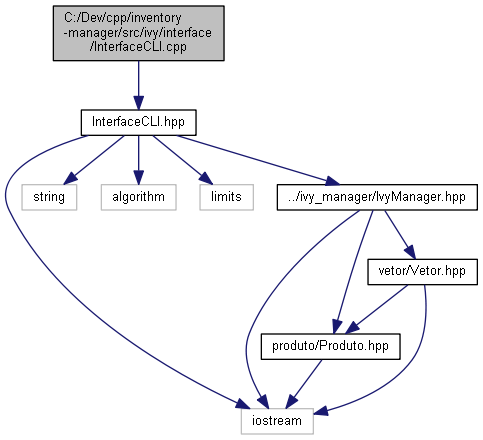
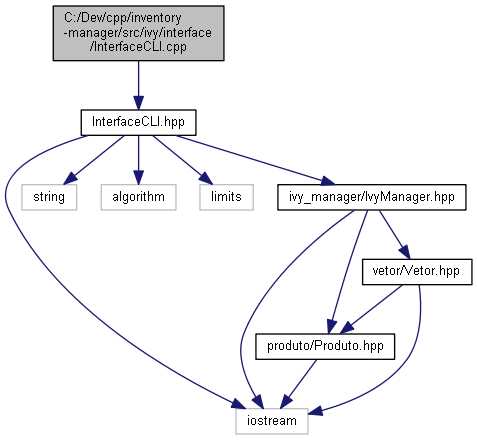
documentacao adicionada ao ghpages

diff --git a/docs/html/_interface_c_l_i_8hpp_source.html b/docs/html/_interface_c_l_i_8hpp_source.html
@@ -92,7 +92,7 @@ $(document).ready(function(){initNavTree('_interface_c_l_i_8hpp_source.html','')
 <div class="title">InterfaceCLI.hpp</div>  </div>
 </div><!--header-->
 <div class="contents">
-<a href="_interface_c_l_i_8hpp.html">Go to the documentation of this file.</a><div class="fragment"><div class="line"><a name="l00001"></a><span class="lineno">    1</span>&#160;<span class="preprocessor">#pragma once</span></div><div class="line"><a name="l00002"></a><span class="lineno">    2</span>&#160;<span class="preprocessor">#include &lt;iostream&gt;</span></div><div class="line"><a name="l00003"></a><span class="lineno">    3</span>&#160;<span class="preprocessor">#include &lt;string&gt;</span></div><div class="line"><a name="l00004"></a><span class="lineno">    4</span>&#160;<span class="preprocessor">#include &lt;algorithm&gt;</span></div><div class="line"><a name="l00005"></a><span class="lineno">    5</span>&#160;<span class="preprocessor">#include &lt;limits&gt;</span></div><div class="line"><a name="l00006"></a><span class="lineno">    6</span>&#160;<span class="preprocessor">#include &quot;../ivy_manager/IvyManager.hpp&quot;</span></div><div class="line"><a name="l00007"></a><span class="lineno">    7</span>&#160;</div><div class="line"><a name="l00008"></a><span class="lineno">    8</span>&#160;<span class="keyword">namespace </span><a class="code" href="namespaceivy.html">ivy</a></div><div class="line"><a name="l00009"></a><span class="lineno">    9</span>&#160;{</div><div class="line"><a name="l00014"></a><span class="lineno"><a class="line" href="classivy_1_1_interface_c_l_i.html">   14</a></span>&#160;<span class="keyword">class </span><a class="code" href="classivy_1_1_interface_c_l_i.html">InterfaceCLI</a></div><div class="line"><a name="l00015"></a><span class="lineno">   15</span>&#160;{</div><div class="line"><a name="l00016"></a><span class="lineno">   16</span>&#160;<span class="keyword">private</span>:</div><div class="line"><a name="l00021"></a><span class="lineno"><a class="line" href="classivy_1_1_interface_c_l_i.html#acb9e6d8810ca2362fb6f42bb8966f964">   21</a></span>&#160;    <a class="code" href="classivy_1_1_ivy_manager.html">IvyManager</a> <a class="code" href="classivy_1_1_interface_c_l_i.html#acb9e6d8810ca2362fb6f42bb8966f964">ivy_manager</a>;</div><div class="line"><a name="l00022"></a><span class="lineno">   22</span>&#160;</div><div class="line"><a name="l00027"></a><span class="lineno"><a class="line" href="classivy_1_1_interface_c_l_i.html#aec91bf8a1d5117be60dbdf0b1652876d">   27</a></span>&#160;    <span class="keywordtype">bool</span> <a class="code" href="classivy_1_1_interface_c_l_i.html#aec91bf8a1d5117be60dbdf0b1652876d">sair</a>;</div><div class="line"><a name="l00028"></a><span class="lineno">   28</span>&#160;</div><div class="line"><a name="l00033"></a><span class="lineno"><a class="line" href="classivy_1_1_interface_c_l_i.html#af43bc4c9ea67bf5cd5c35442d25965a5">   33</a></span>&#160;    std::string <a class="code" href="classivy_1_1_interface_c_l_i.html#af43bc4c9ea67bf5cd5c35442d25965a5">opt</a>;</div><div class="line"><a name="l00034"></a><span class="lineno">   34</span>&#160;</div><div class="line"><a name="l00035"></a><span class="lineno">   35</span>&#160;<span class="keyword">public</span>:</div><div class="line"><a name="l00041"></a><span class="lineno">   41</span>&#160;    <a class="code" href="classivy_1_1_interface_c_l_i.html#aef9d3a8136593e6b9441f158ca403dc6">InterfaceCLI</a>(<a class="code" href="classivy_1_1_ivy_manager.html">IvyManager</a> &amp;nIvy_manager);</div><div class="line"><a name="l00042"></a><span class="lineno">   42</span>&#160;</div><div class="line"><a name="l00047"></a><span class="lineno">   47</span>&#160;    <a class="code" href="classivy_1_1_interface_c_l_i.html#ad6dcfbf0aa450dde9dfc81c5ba68646b">~InterfaceCLI</a>();</div><div class="line"><a name="l00048"></a><span class="lineno">   48</span>&#160;</div><div class="line"><a name="l00053"></a><span class="lineno">   53</span>&#160;    <span class="keywordtype">void</span> <a class="code" href="classivy_1_1_interface_c_l_i.html#a1d9c84216def96675b6a60fb3ca6d201">run</a>();</div><div class="line"><a name="l00054"></a><span class="lineno">   54</span>&#160;</div><div class="line"><a name="l00059"></a><span class="lineno">   59</span>&#160;    <span class="keywordtype">void</span> <a class="code" href="classivy_1_1_interface_c_l_i.html#ac0d99448f2c0e42e6d85acc21671dd5f">logo</a>();</div><div class="line"><a name="l00060"></a><span class="lineno">   60</span>&#160;</div><div class="line"><a name="l00065"></a><span class="lineno">   65</span>&#160;    <span class="keywordtype">void</span> <a class="code" href="classivy_1_1_interface_c_l_i.html#ad3a851b780a15f6c67428c59b5b1fe5b">menu</a>();</div><div class="line"><a name="l00066"></a><span class="lineno">   66</span>&#160;</div><div class="line"><a name="l00071"></a><span class="lineno">   71</span>&#160;    <span class="keywordtype">void</span> <a class="code" href="classivy_1_1_interface_c_l_i.html#a5e8ba431daf3cf4a14f4d31a7919a38a">option_handler</a>();</div><div class="line"><a name="l00072"></a><span class="lineno">   72</span>&#160;</div><div class="line"><a name="l00077"></a><span class="lineno">   77</span>&#160;    <span class="keywordtype">void</span> <a class="code" href="classivy_1_1_interface_c_l_i.html#ab1945cf30996bef4223bad7b733583d5">ajuda</a>();</div><div class="line"><a name="l00078"></a><span class="lineno">   78</span>&#160;</div><div class="line"><a name="l00083"></a><span class="lineno">   83</span>&#160;    <span class="keywordtype">void</span> <a class="code" href="classivy_1_1_interface_c_l_i.html#a494550d9c35c5f1ce1efd68cac0a6080">cadastrar</a>();</div><div class="line"><a name="l00084"></a><span class="lineno">   84</span>&#160;</div><div class="line"><a name="l00089"></a><span class="lineno">   89</span>&#160;    <span class="keywordtype">void</span> <a class="code" href="classivy_1_1_interface_c_l_i.html#a41599a3c68b2fea24d429ce198d16ffb">editar</a>();</div><div class="line"><a name="l00090"></a><span class="lineno">   90</span>&#160;</div><div class="line"><a name="l00095"></a><span class="lineno">   95</span>&#160;    <span class="keywordtype">void</span> <a class="code" href="classivy_1_1_interface_c_l_i.html#ab4a5ce507d934cd6d21b82ba65ba97f3">buscar</a>();</div><div class="line"><a name="l00096"></a><span class="lineno">   96</span>&#160;</div><div class="line"><a name="l00101"></a><span class="lineno">  101</span>&#160;    <span class="keywordtype">void</span> <a class="code" href="classivy_1_1_interface_c_l_i.html#a2634dfc23bb3fb2cbacfe1bee9c04709">vender</a>();</div><div class="line"><a name="l00102"></a><span class="lineno">  102</span>&#160;</div><div class="line"><a name="l00107"></a><span class="lineno">  107</span>&#160;    <span class="keywordtype">void</span> <a class="code" href="classivy_1_1_interface_c_l_i.html#aae7a23df61ce414134276a1ecc685c10">comprar</a>();</div><div class="line"><a name="l00108"></a><span class="lineno">  108</span>&#160;};</div><div class="line"><a name="l00109"></a><span class="lineno">  109</span>&#160;} <span class="comment">// namespace ivy</span></div><div class="ttc" id="classivy_1_1_interface_c_l_i_html_acb9e6d8810ca2362fb6f42bb8966f964"><div class="ttname"><a href="classivy_1_1_interface_c_l_i.html#acb9e6d8810ca2362fb6f42bb8966f964">ivy::InterfaceCLI::ivy_manager</a></div><div class="ttdeci">IvyManager ivy_manager</div><div class="ttdoc">Referencia para o objeto de IvyManager.</div><div class="ttdef"><b>Definition:</b> InterfaceCLI.hpp:21</div></div>
+<a href="_interface_c_l_i_8hpp.html">Go to the documentation of this file.</a><div class="fragment"><div class="line"><a name="l00001"></a><span class="lineno">    1</span>&#160;<span class="preprocessor">#pragma once</span></div><div class="line"><a name="l00002"></a><span class="lineno">    2</span>&#160;<span class="preprocessor">#include &lt;iostream&gt;</span></div><div class="line"><a name="l00003"></a><span class="lineno">    3</span>&#160;<span class="preprocessor">#include &lt;string&gt;</span></div><div class="line"><a name="l00004"></a><span class="lineno">    4</span>&#160;<span class="preprocessor">#include &lt;algorithm&gt;</span></div><div class="line"><a name="l00005"></a><span class="lineno">    5</span>&#160;<span class="preprocessor">#include &lt;limits&gt;</span></div><div class="line"><a name="l00006"></a><span class="lineno">    6</span>&#160;<span class="preprocessor">#include &quot;<a class="code" href="_ivy_manager_8hpp.html">ivy_manager/IvyManager.hpp</a>&quot;</span></div><div class="line"><a name="l00007"></a><span class="lineno">    7</span>&#160;</div><div class="line"><a name="l00008"></a><span class="lineno">    8</span>&#160;<span class="keyword">namespace </span><a class="code" href="namespaceivy.html">ivy</a></div><div class="line"><a name="l00009"></a><span class="lineno">    9</span>&#160;{</div><div class="line"><a name="l00014"></a><span class="lineno"><a class="line" href="classivy_1_1_interface_c_l_i.html">   14</a></span>&#160;<span class="keyword">class </span><a class="code" href="classivy_1_1_interface_c_l_i.html">InterfaceCLI</a></div><div class="line"><a name="l00015"></a><span class="lineno">   15</span>&#160;{</div><div class="line"><a name="l00016"></a><span class="lineno">   16</span>&#160;<span class="keyword">private</span>:</div><div class="line"><a name="l00021"></a><span class="lineno"><a class="line" href="classivy_1_1_interface_c_l_i.html#acb9e6d8810ca2362fb6f42bb8966f964">   21</a></span>&#160;    <a class="code" href="classivy_1_1_ivy_manager.html">IvyManager</a> <a class="code" href="classivy_1_1_interface_c_l_i.html#acb9e6d8810ca2362fb6f42bb8966f964">ivy_manager</a>;</div><div class="line"><a name="l00022"></a><span class="lineno">   22</span>&#160;</div><div class="line"><a name="l00027"></a><span class="lineno"><a class="line" href="classivy_1_1_interface_c_l_i.html#aec91bf8a1d5117be60dbdf0b1652876d">   27</a></span>&#160;    <span class="keywordtype">bool</span> <a class="code" href="classivy_1_1_interface_c_l_i.html#aec91bf8a1d5117be60dbdf0b1652876d">sair</a>;</div><div class="line"><a name="l00028"></a><span class="lineno">   28</span>&#160;</div><div class="line"><a name="l00033"></a><span class="lineno"><a class="line" href="classivy_1_1_interface_c_l_i.html#af43bc4c9ea67bf5cd5c35442d25965a5">   33</a></span>&#160;    std::string <a class="code" href="classivy_1_1_interface_c_l_i.html#af43bc4c9ea67bf5cd5c35442d25965a5">opt</a>;</div><div class="line"><a name="l00034"></a><span class="lineno">   34</span>&#160;</div><div class="line"><a name="l00035"></a><span class="lineno">   35</span>&#160;<span class="keyword">public</span>:</div><div class="line"><a name="l00041"></a><span class="lineno">   41</span>&#160;    <a class="code" href="classivy_1_1_interface_c_l_i.html#aef9d3a8136593e6b9441f158ca403dc6">InterfaceCLI</a>(<a class="code" href="classivy_1_1_ivy_manager.html">IvyManager</a> &amp;nIvy_manager);</div><div class="line"><a name="l00042"></a><span class="lineno">   42</span>&#160;</div><div class="line"><a name="l00047"></a><span class="lineno">   47</span>&#160;    <a class="code" href="classivy_1_1_interface_c_l_i.html#ad6dcfbf0aa450dde9dfc81c5ba68646b">~InterfaceCLI</a>();</div><div class="line"><a name="l00048"></a><span class="lineno">   48</span>&#160;</div><div class="line"><a name="l00053"></a><span class="lineno">   53</span>&#160;    <span class="keywordtype">void</span> <a class="code" href="classivy_1_1_interface_c_l_i.html#a1d9c84216def96675b6a60fb3ca6d201">run</a>();</div><div class="line"><a name="l00054"></a><span class="lineno">   54</span>&#160;</div><div class="line"><a name="l00059"></a><span class="lineno">   59</span>&#160;    <span class="keywordtype">void</span> <a class="code" href="classivy_1_1_interface_c_l_i.html#ac0d99448f2c0e42e6d85acc21671dd5f">logo</a>();</div><div class="line"><a name="l00060"></a><span class="lineno">   60</span>&#160;</div><div class="line"><a name="l00065"></a><span class="lineno">   65</span>&#160;    <span class="keywordtype">void</span> <a class="code" href="classivy_1_1_interface_c_l_i.html#ad3a851b780a15f6c67428c59b5b1fe5b">menu</a>();</div><div class="line"><a name="l00066"></a><span class="lineno">   66</span>&#160;</div><div class="line"><a name="l00071"></a><span class="lineno">   71</span>&#160;    <span class="keywordtype">void</span> <a class="code" href="classivy_1_1_interface_c_l_i.html#a5e8ba431daf3cf4a14f4d31a7919a38a">option_handler</a>();</div><div class="line"><a name="l00072"></a><span class="lineno">   72</span>&#160;</div><div class="line"><a name="l00077"></a><span class="lineno">   77</span>&#160;    <span class="keywordtype">void</span> <a class="code" href="classivy_1_1_interface_c_l_i.html#ab1945cf30996bef4223bad7b733583d5">ajuda</a>();</div><div class="line"><a name="l00078"></a><span class="lineno">   78</span>&#160;</div><div class="line"><a name="l00083"></a><span class="lineno">   83</span>&#160;    <span class="keywordtype">void</span> <a class="code" href="classivy_1_1_interface_c_l_i.html#a494550d9c35c5f1ce1efd68cac0a6080">cadastrar</a>();</div><div class="line"><a name="l00084"></a><span class="lineno">   84</span>&#160;</div><div class="line"><a name="l00089"></a><span class="lineno">   89</span>&#160;    <span class="keywordtype">void</span> <a class="code" href="classivy_1_1_interface_c_l_i.html#a41599a3c68b2fea24d429ce198d16ffb">editar</a>();</div><div class="line"><a name="l00090"></a><span class="lineno">   90</span>&#160;</div><div class="line"><a name="l00095"></a><span class="lineno">   95</span>&#160;    <span class="keywordtype">void</span> <a class="code" href="classivy_1_1_interface_c_l_i.html#ab4a5ce507d934cd6d21b82ba65ba97f3">buscar</a>();</div><div class="line"><a name="l00096"></a><span class="lineno">   96</span>&#160;</div><div class="line"><a name="l00101"></a><span class="lineno">  101</span>&#160;    <span class="keywordtype">void</span> <a class="code" href="classivy_1_1_interface_c_l_i.html#a2634dfc23bb3fb2cbacfe1bee9c04709">vender</a>();</div><div class="line"><a name="l00102"></a><span class="lineno">  102</span>&#160;</div><div class="line"><a name="l00107"></a><span class="lineno">  107</span>&#160;    <span class="keywordtype">void</span> <a class="code" href="classivy_1_1_interface_c_l_i.html#aae7a23df61ce414134276a1ecc685c10">comprar</a>();</div><div class="line"><a name="l00108"></a><span class="lineno">  108</span>&#160;};</div><div class="line"><a name="l00109"></a><span class="lineno">  109</span>&#160;} <span class="comment">// namespace ivy</span></div><div class="ttc" id="classivy_1_1_interface_c_l_i_html_acb9e6d8810ca2362fb6f42bb8966f964"><div class="ttname"><a href="classivy_1_1_interface_c_l_i.html#acb9e6d8810ca2362fb6f42bb8966f964">ivy::InterfaceCLI::ivy_manager</a></div><div class="ttdeci">IvyManager ivy_manager</div><div class="ttdoc">Referencia para o objeto de IvyManager.</div><div class="ttdef"><b>Definition:</b> InterfaceCLI.hpp:21</div></div>
 <div class="ttc" id="classivy_1_1_interface_c_l_i_html"><div class="ttname"><a href="classivy_1_1_interface_c_l_i.html">ivy::InterfaceCLI</a></div><div class="ttdoc">Classe InterfaceCLI Realiza a interacao com o usuario.</div><div class="ttdef"><b>Definition:</b> InterfaceCLI.hpp:14</div></div>
 <div class="ttc" id="classivy_1_1_interface_c_l_i_html_ac0d99448f2c0e42e6d85acc21671dd5f"><div class="ttname"><a href="classivy_1_1_interface_c_l_i.html#ac0d99448f2c0e42e6d85acc21671dd5f">ivy::InterfaceCLI::logo</a></div><div class="ttdeci">void logo()</div><div class="ttdoc">Logo do programa.</div><div class="ttdef"><b>Definition:</b> InterfaceCLI.cpp:27</div></div>
 <div class="ttc" id="classivy_1_1_interface_c_l_i_html_a494550d9c35c5f1ce1efd68cac0a6080"><div class="ttname"><a href="classivy_1_1_interface_c_l_i.html#a494550d9c35c5f1ce1efd68cac0a6080">ivy::InterfaceCLI::cadastrar</a></div><div class="ttdeci">void cadastrar()</div><div class="ttdoc">Entrada dos dados do produto.</div><div class="ttdef"><b>Definition:</b> InterfaceCLI.cpp:95</div></div>
@@ -104,6 +104,7 @@ $(document).ready(function(){initNavTree('_interface_c_l_i_8hpp_source.html','')
 <div class="ttc" id="namespaceivy_html"><div class="ttname"><a href="namespaceivy.html">ivy</a></div><div class="ttdef"><b>Definition:</b> InterfaceCLI.cpp:3</div></div>
 <div class="ttc" id="classivy_1_1_ivy_manager_html"><div class="ttname"><a href="classivy_1_1_ivy_manager.html">ivy::IvyManager</a></div><div class="ttdoc">Classe IvyManager.</div><div class="ttdef"><b>Definition:</b> IvyManager.hpp:12</div></div>
 <div class="ttc" id="classivy_1_1_interface_c_l_i_html_ab4a5ce507d934cd6d21b82ba65ba97f3"><div class="ttname"><a href="classivy_1_1_interface_c_l_i.html#ab4a5ce507d934cd6d21b82ba65ba97f3">ivy::InterfaceCLI::buscar</a></div><div class="ttdeci">void buscar()</div><div class="ttdoc">Busca um produto no estoque.</div><div class="ttdef"><b>Definition:</b> InterfaceCLI.cpp:162</div></div>
+<div class="ttc" id="_ivy_manager_8hpp_html"><div class="ttname"><a href="_ivy_manager_8hpp.html">IvyManager.hpp</a></div></div>
 <div class="ttc" id="classivy_1_1_interface_c_l_i_html_aae7a23df61ce414134276a1ecc685c10"><div class="ttname"><a href="classivy_1_1_interface_c_l_i.html#aae7a23df61ce414134276a1ecc685c10">ivy::InterfaceCLI::comprar</a></div><div class="ttdeci">void comprar()</div><div class="ttdoc">Compra um produto.</div><div class="ttdef"><b>Definition:</b> InterfaceCLI.cpp:258</div></div>
 <div class="ttc" id="classivy_1_1_interface_c_l_i_html_af43bc4c9ea67bf5cd5c35442d25965a5"><div class="ttname"><a href="classivy_1_1_interface_c_l_i.html#af43bc4c9ea67bf5cd5c35442d25965a5">ivy::InterfaceCLI::opt</a></div><div class="ttdeci">std::string opt</div><div class="ttdoc">Opcoes digitadas pelo usuario.</div><div class="ttdef"><b>Definition:</b> InterfaceCLI.hpp:33</div></div>
 <div class="ttc" id="classivy_1_1_interface_c_l_i_html_ad6dcfbf0aa450dde9dfc81c5ba68646b"><div class="ttname"><a href="classivy_1_1_interface_c_l_i.html#ad6dcfbf0aa450dde9dfc81c5ba68646b">ivy::InterfaceCLI::~InterfaceCLI</a></div><div class="ttdeci">~InterfaceCLI()</div><div class="ttdoc">Destroi o objeto de InterfaceCLI.</div><div class="ttdef"><b>Definition:</b> InterfaceCLI.cpp:11</div></div>

diff --git a/docs/html/_produto_8hpp.html b/docs/html/_produto_8hpp.html
@@ -110,16 +110,16 @@ This graph shows which files directly or indirectly include this file:</div>
 <div class="dyncontent">
 <div class="center"><img src="_produto_8hpp__dep__incl.png" border="0" usemap="#_c_1_2_dev_2cpp_2inventory-manager_2src_2ivy_2produto_2_produto_8hppdep" alt=""/></div>
 <map name="_c_1_2_dev_2cpp_2inventory-manager_2src_2ivy_2produto_2_produto_8hppdep" id="_c_1_2_dev_2cpp_2inventory-manager_2src_2ivy_2produto_2_produto_8hppdep">
-<area shape="rect"  title=" " alt="" coords="547,5,711,61"/>
-<area shape="rect"  href="_ivy_manager_8hpp.html" title=" " alt="" coords="251,213,424,269"/>
-<area shape="rect"  href="ivy_8hpp.html" title=" " alt="" coords="381,429,542,470"/>
-<area shape="rect"  href="_vetor_8hpp.html" title=" " alt="" coords="443,109,591,165"/>
-<area shape="rect"  href="_produto_8cpp.html" title=" " alt="" coords="723,109,887,165"/>
-<area shape="rect"  href="_interface_c_l_i_8hpp.html" title=" " alt="" coords="203,317,373,373"/>
-<area shape="rect"  href="_ivy_manager_8cpp.html" title=" " alt="" coords="5,317,179,373"/>
-<area shape="rect"  href="_interface_c_l_i_8cpp.html" title=" " alt="" coords="185,421,356,477"/>
-<area shape="rect"  href="main_8cpp.html" title=" " alt="" coords="384,525,539,567"/>
-<area shape="rect"  href="_vetor_8cpp.html" title=" " alt="" coords="499,213,647,269"/>
+<area shape="rect"  title=" " alt="" coords="172,5,336,61"/>
+<area shape="rect"  href="_vetor_8hpp.html" title=" " alt="" coords="124,109,272,165"/>
+<area shape="rect"  href="ivy_8hpp.html" title=" " alt="" coords="5,429,167,470"/>
+<area shape="rect"  href="_ivy_manager_8hpp.html" title=" " alt="" coords="297,213,470,269"/>
+<area shape="rect"  href="_produto_8cpp.html" title=" " alt="" coords="348,109,512,165"/>
+<area shape="rect"  href="_vetor_8cpp.html" title=" " alt="" coords="124,213,272,269"/>
+<area shape="rect"  href="main_8cpp.html" title=" " alt="" coords="9,525,163,567"/>
+<area shape="rect"  href="_interface_c_l_i_8hpp.html" title=" " alt="" coords="187,317,358,373"/>
+<area shape="rect"  href="_ivy_manager_8cpp.html" title=" " alt="" coords="382,317,555,373"/>
+<area shape="rect"  href="_interface_c_l_i_8cpp.html" title=" " alt="" coords="191,421,362,477"/>
 </map>
 </div>
 </div>

diff --git a/docs/html/_interface_c_l_i_8hpp.html b/docs/html/_interface_c_l_i_8hpp.html
@@ -99,20 +99,20 @@ $(document).ready(function(){initNavTree('_interface_c_l_i_8hpp.html','');});
 <code>#include &lt;string&gt;</code><br />
 <code>#include &lt;algorithm&gt;</code><br />
 <code>#include &lt;limits&gt;</code><br />
-<code>#include &quot;<a class="el" href="_ivy_manager_8hpp_source.html">../ivy_manager/IvyManager.hpp</a>&quot;</code><br />
+<code>#include &quot;<a class="el" href="_ivy_manager_8hpp_source.html">ivy_manager/IvyManager.hpp</a>&quot;</code><br />
 </div><div class="textblock"><div class="dynheader">
 Include dependency graph for InterfaceCLI.hpp:</div>
 <div class="dyncontent">
 <div class="center"><img src="_interface_c_l_i_8hpp__incl.png" border="0" usemap="#_c_1_2_dev_2cpp_2inventory-manager_2src_2ivy_2interface_2_interface_c_l_i_8hpp" alt=""/></div>
 <map name="_c_1_2_dev_2cpp_2inventory-manager_2src_2ivy_2interface_2_interface_c_l_i_8hpp" id="_c_1_2_dev_2cpp_2inventory-manager_2src_2ivy_2interface_2_interface_c_l_i_8hpp">
-<area shape="rect"  title=" " alt="" coords="54,5,224,61"/>
-<area shape="rect"  title=" " alt="" coords="242,333,314,360"/>
-<area shape="rect"  title=" " alt="" coords="22,109,77,136"/>
-<area shape="rect"  title=" " alt="" coords="102,109,176,136"/>
-<area shape="rect"  title=" " alt="" coords="200,109,254,136"/>
-<area shape="rect"  href="_ivy_manager_8hpp.html" title=" " alt="" coords="278,109,478,136"/>
-<area shape="rect"  href="_produto_8hpp.html" title=" " alt="" coords="262,259,400,285"/>
-<area shape="rect"  href="_vetor_8hpp.html" title=" " alt="" coords="368,184,478,211"/>
+<area shape="rect"  title=" " alt="" coords="54,5,225,61"/>
+<area shape="rect"  title=" " alt="" coords="237,333,309,360"/>
+<area shape="rect"  title=" " alt="" coords="23,109,78,136"/>
+<area shape="rect"  title=" " alt="" coords="102,109,177,136"/>
+<area shape="rect"  title=" " alt="" coords="201,109,254,136"/>
+<area shape="rect"  href="_ivy_manager_8hpp.html" title=" " alt="" coords="279,109,467,136"/>
+<area shape="rect"  href="_produto_8hpp.html" title=" " alt="" coords="257,259,396,285"/>
+<area shape="rect"  href="_vetor_8hpp.html" title=" " alt="" coords="364,184,473,211"/>
 </map>
 </div>
 </div><div class="textblock"><div class="dynheader">

diff --git a/docs/html/_vetor_8hpp.html b/docs/html/_vetor_8hpp.html
@@ -112,14 +112,14 @@ This graph shows which files directly or indirectly include this file:</div>
 <div class="dyncontent">
 <div class="center"><img src="_vetor_8hpp__dep__incl.png" border="0" usemap="#_c_1_2_dev_2cpp_2inventory-manager_2src_2ivy_2vetor_2_vetor_8hppdep" alt=""/></div>
 <map name="_c_1_2_dev_2cpp_2inventory-manager_2src_2ivy_2vetor_2_vetor_8hppdep" id="_c_1_2_dev_2cpp_2inventory-manager_2src_2ivy_2vetor_2_vetor_8hppdep">
-<area shape="rect"  title=" " alt="" coords="421,5,569,61"/>
-<area shape="rect"  href="_ivy_manager_8hpp.html" title=" " alt="" coords="223,109,396,165"/>
-<area shape="rect"  href="ivy_8hpp.html" title=" " alt="" coords="201,325,362,366"/>
-<area shape="rect"  href="_vetor_8cpp.html" title=" " alt="" coords="533,109,681,165"/>
-<area shape="rect"  href="_interface_c_l_i_8hpp.html" title=" " alt="" coords="39,213,209,269"/>
-<area shape="rect"  href="_ivy_manager_8cpp.html" title=" " alt="" coords="284,213,457,269"/>
-<area shape="rect"  href="_interface_c_l_i_8cpp.html" title=" " alt="" coords="5,317,176,373"/>
-<area shape="rect"  href="main_8cpp.html" title=" " alt="" coords="204,421,359,463"/>
+<area shape="rect"  title=" " alt="" coords="135,5,283,61"/>
+<area shape="rect"  href="ivy_8hpp.html" title=" " alt="" coords="5,325,167,366"/>
+<area shape="rect"  href="_ivy_manager_8hpp.html" title=" " alt="" coords="122,109,295,165"/>
+<area shape="rect"  href="_vetor_8cpp.html" title=" " alt="" coords="320,109,468,165"/>
+<area shape="rect"  href="main_8cpp.html" title=" " alt="" coords="9,421,163,463"/>
+<area shape="rect"  href="_interface_c_l_i_8hpp.html" title=" " alt="" coords="149,213,319,269"/>
+<area shape="rect"  href="_ivy_manager_8cpp.html" title=" " alt="" coords="343,213,517,269"/>
+<area shape="rect"  href="_interface_c_l_i_8cpp.html" title=" " alt="" coords="191,317,362,373"/>
 </map>
 </div>
 </div>

diff --git a/docs/html/_interface_c_l_i_8cpp.html b/docs/html/_interface_c_l_i_8cpp.html
@@ -102,13 +102,13 @@ Include dependency graph for InterfaceCLI.cpp:</div>
 <map name="_c_1_2_dev_2cpp_2inventory-manager_2src_2ivy_2interface_2_interface_c_l_i_8cpp" id="_c_1_2_dev_2cpp_2inventory-manager_2src_2ivy_2interface_2_interface_c_l_i_8cpp">
 <area shape="rect"  title=" " alt="" coords="53,5,224,61"/>
 <area shape="rect"  href="_interface_c_l_i_8hpp.html" title=" " alt="" coords="81,109,196,136"/>
-<area shape="rect"  title=" " alt="" coords="241,408,313,435"/>
+<area shape="rect"  title=" " alt="" coords="236,408,308,435"/>
 <area shape="rect"  title=" " alt="" coords="22,184,77,211"/>
 <area shape="rect"  title=" " alt="" coords="101,184,176,211"/>
 <area shape="rect"  title=" " alt="" coords="200,184,253,211"/>
-<area shape="rect"  href="_ivy_manager_8hpp.html" title=" " alt="" coords="277,184,477,211"/>
-<area shape="rect"  href="_produto_8hpp.html" title=" " alt="" coords="261,333,400,360"/>
-<area shape="rect"  href="_vetor_8hpp.html" title=" " alt="" coords="368,259,477,285"/>
+<area shape="rect"  href="_ivy_manager_8hpp.html" title=" " alt="" coords="278,184,466,211"/>
+<area shape="rect"  href="_produto_8hpp.html" title=" " alt="" coords="256,333,395,360"/>
+<area shape="rect"  href="_vetor_8hpp.html" title=" " alt="" coords="363,259,472,285"/>
 </map>
 </div>
 </div><table class="memberdecls">

diff --git a/docs/index.html b/docs/index.html
@@ -1,0 +1,1 @@
+<meta http-equiv="REFRESH" content="0;URL=html/index.html">
